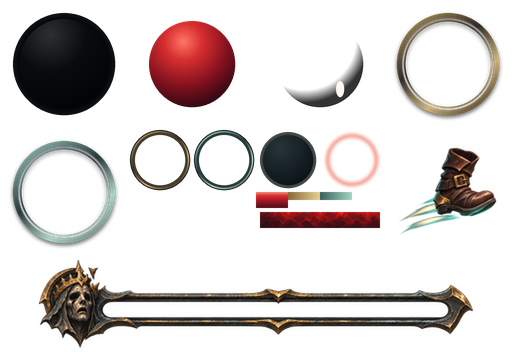
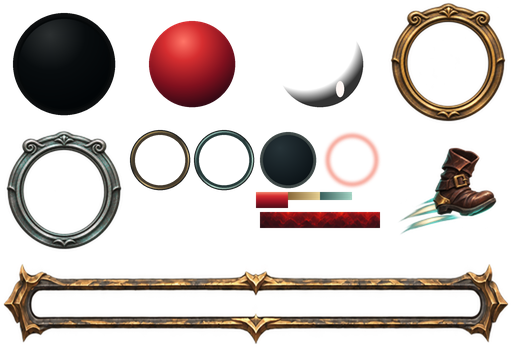
Implement wide boss header and larger ornate health orbs

Changed region(s): [[0.0, 0.75, 1.0, 0.9688], [0.75, 0.0, 1.0, 0.3438], [0.0, 0.375, 0.25, 0.7188]]

diff --git a/core/src/main/java/com/couchcrypt/game/GameHud.java b/core/src/main/java/com/couchcrypt/game/GameHud.java
@@ -15,12 +15,13 @@ public final class GameHud {
     private static final Color WARNING = Color.valueOf("e5a56a");
     private static final Color CRITICAL = Color.valueOf("f36d51");
     private static final Color SOUL = Color.valueOf("9bc3bb");
-    private static final float ORB_SIZE = 176f, ORB_Y = 104f;
+    private static final float ORB_SIZE = 224f, ORB_Y = 104f, ORB_LEFT = 32f;
     private static final float ORB_SCALE = ORB_SIZE / HudArt.ORB_SIZE;
-    private static final float SKILL_Y = 150f, SKILL_SIZE = 88f, SKILL_STEP = 100f;
-    private static final float DODGE_Y = 154f, DODGE_SIZE = 80f;
+    private static final float SKILL_Y = 100f, SKILL_SIZE = 88f, SKILL_STEP = 96f, SKILL_LEFT = 376f;
+    private static final float DODGE_Y = 104f, DODGE_SIZE = 80f, DODGE_LEFT = 272f;
     private static final float CRITICAL_HEALTH = .2f, PULSE_SECONDS = 1.6f;
-    private static final float BOSS_X = 480f, BOSS_Y = 850f, BOSS_SCALE = 960f / 512f;
+    private static final float BOSS_X = 288f, BOSS_Y = 928f, BOSS_WIDTH = 1344f, BOSS_HEIGHT = 86f;
+    private static final float BOSS_SCALE_X = BOSS_WIDTH / 512f, BOSS_SCALE_Y = BOSS_HEIGHT / 96f;
     private static final int ARC_SEGMENTS = 48;
     private final GameArt art;
     private final HudArt hudArt;
@@ -51,7 +52,7 @@ public final class GameHud {
         lowHealth = new Text(ui.small, .85f, 180f, CRITICAL); lowHealth.set("LOW HEALTH");
         partyLevel = new Text(ui.small, .9f, 480f, UiArt.GOLD);
         timer = new Text(ui.section, 1.15f, 160f, UiArt.IVORY);
-        bossName = new Text(ui.heading, .6f, 750f, UiArt.IVORY);
+        bossName = new Text(ui.heading, .78f, 1240f, UiArt.IVORY);
     }
 
     public void reset() {
@@ -75,7 +76,7 @@ public final class GameHud {
         for (ArenaWorld.Player player : world.players) if (player.active) {
             boolean mirror = split && player.slot == 1;
             batch.setColor(0, 0, 0, .64f);
-            batch.draw(art.shadow, mirror ? 1020f : 12f, 80f, 888f, 250f);
+            batch.draw(art.shadow, mirror ? 1020f : 12f, 76f, 888f, 276f);
         }
         batch.setColor(0, 0, 0, .35f); batch.draw(art.shadow, 40f, 16f, 1840f, 90f);
         if (split) {
@@ -106,18 +107,17 @@ public final class GameHud {
         partyLevel.center(batch, 960f, 82f);
         if (state.bossVisible) {
             bossName.set(state.bossName);
-            bossName.center(batch, BOSS_X + HudArt.BOSS_TITLE_X * BOSS_SCALE,
-                BOSS_Y + HudArt.BOSS_TITLE_Y * BOSS_SCALE);
+            bossName.center(batch, 960f, 1058f);
         } else timer.center(batch, 960f, 1028f);
         batch.setColor(Color.WHITE);
     }
 
     /** Painted frame and live fill share the same managed HUD page. No baked text or health. */
     private void bossArt(SpriteBatch batch, ArenaHudState state) {
-        float x = BOSS_X + HudArt.BOSS_TRACK_X * BOSS_SCALE;
-        float y = BOSS_Y + HudArt.BOSS_TRACK_Y * BOSS_SCALE;
-        float width = HudArt.BOSS_TRACK_WIDTH * BOSS_SCALE;
-        float height = HudArt.BOSS_TRACK_HEIGHT * BOSS_SCALE;
+        float x = BOSS_X + HudArt.BOSS_TRACK_X * BOSS_SCALE_X;
+        float y = BOSS_Y + HudArt.BOSS_TRACK_Y * BOSS_SCALE_Y;
+        float width = HudArt.BOSS_TRACK_WIDTH * BOSS_SCALE_X;
+        float height = HudArt.BOSS_TRACK_HEIGHT * BOSS_SCALE_Y;
         rect(batch, x, y, width, height, Color.BLACK, .94f);
         float ratio = MathUtils.clamp(state.bossHealth / Math.max(1f, state.bossMaxHealth), 0, 1);
         if (ratio > 0) {
@@ -128,7 +128,7 @@ public final class GameHud {
                 fill.getU(), fill.getV2(), MathUtils.lerp(fill.getU(), fill.getU2(), ratio), fill.getV());
         }
         batch.setColor(Color.WHITE);
-        batch.draw(hudArt.bossFrame, BOSS_X, BOSS_Y, 960f, 180f);
+        batch.draw(hudArt.bossFrame, BOSS_X, BOSS_Y, BOSS_WIDTH, BOSS_HEIGHT);
     }
 
     private void refreshText(ArenaWorld world) {
@@ -169,7 +169,7 @@ public final class GameHud {
 
     private void playerArt(SpriteBatch batch, ArenaWorld.Player player, ArenaWorld world, boolean mirror) {
         boolean teal = player.slot == 1;
-        float orbX = mirror ? 1696f : 48f;
+        float orbX = mirror ? 1920f - ORB_LEFT - ORB_SIZE : ORB_LEFT;
         float ratio = healthRatio(player, world);
         if (player.alive && ratio <= CRITICAL_HEALTH) {
             float pulse = .45f + .25f * MathUtils.sin(pulseClock / PULSE_SECONDS * MathUtils.PI2);
@@ -189,7 +189,7 @@ public final class GameHud {
         }
         batch.setColor(Color.WHITE); batch.draw(hudArt.orbReflection, orbX, ORB_Y, ORB_SIZE, ORB_SIZE);
         batch.draw(teal ? hudArt.orbTeal : hudArt.orbGold, orbX, ORB_Y, ORB_SIZE, ORB_SIZE);
-        float dodgeX = mirror ? 1602f : 238f;
+        float dodgeX = mirror ? 1920f - DODGE_LEFT - DODGE_SIZE : DODGE_LEFT;
         batch.draw(hudArt.dodgeBack, dodgeX, DODGE_Y, DODGE_SIZE, DODGE_SIZE);
         if (player.alive) {
             float tint = player.dodgeCooldown <= .05f ? 1f : .36f;
@@ -212,19 +212,20 @@ public final class GameHud {
 
     private void playerText(SpriteBatch batch, ArenaWorld.Player player, ArenaWorld world, boolean mirror) {
         int slot = player.slot;
-        float center = mirror ? 1784f : 136f, dodgeX = mirror ? 1642f : 278f;
-        playerLabels[slot].center(batch, center, 302f);
-        if (player.alive && healthRatio(player, world) <= CRITICAL_HEALTH) lowHealth.center(batch, center, 110f);
+        float center = mirror ? 1920f - ORB_LEFT - ORB_SIZE * .5f : ORB_LEFT + ORB_SIZE * .5f;
+        float dodgeX = mirror ? 1920f - DODGE_LEFT - DODGE_SIZE * .5f : DODGE_LEFT + DODGE_SIZE * .5f;
+        playerLabels[slot].center(batch, center, ORB_Y + ORB_SIZE + 18f);
+        if (player.alive && healthRatio(player, world) <= CRITICAL_HEALTH) lowHealth.center(batch, center, 100f);
         dodge[slot].center(batch, dodgeX, DODGE_Y + 52f);
         if (!player.alive) revivalStatus[slot].center(batch, dodgeX, DODGE_Y - 12f);
         PlayerHudModel build = builds[slot];
         for (int i = 0; i < build.count; i++)
             ranks[slot][i].center(batch, skillX(mirror, i) + 76f, SKILL_Y + 14f);
-        overflow[slot].center(batch, mirror ? 1056f : 864f, SKILL_Y + 55f);
+        overflow[slot].center(batch, mirror ? 1026f : 894f, SKILL_Y + 55f);
     }
 
     private static float skillX(boolean mirror, int index) {
-        return mirror ? 1488f - index * SKILL_STEP : 344f + index * SKILL_STEP;
+        return mirror ? 1920f - SKILL_LEFT - SKILL_SIZE - index * SKILL_STEP : SKILL_LEFT + index * SKILL_STEP;
     }
 
     private static float healthRatio(ArenaWorld.Player player, ArenaWorld world) {

diff --git a/scripts/GenerateHudArt.py b/scripts/GenerateHudArt.py
@@ -2,8 +2,8 @@
 """Bake the approved code-native orb HUD gradients/shapes into one bounded RGBA atlas.
 
 Source: original code-native HUD shapes, 2026-11-13; smooth orb rims, local
-low-health halo and original painted boss frame approved on 2026-11-23.
-See docs/hud-art.md and art-source/boss-hud/README.md.
+low-health halo and original painted frames approved on 2026-11-24.
+See docs/hud-art.md and art-source/epic-combat-hud/README.md.
 Requires Pillow only for this offline asset-generation step; runtime has no dependency.
 """
 from pathlib import Path
@@ -134,12 +134,18 @@ def dodge_back():
 
 def main():
     atlas = Image.new('RGBA',(512*SCALE,352*SCALE))
+    rims = []
+    for name in ['gold', 'teal']:
+        with Image.open(ROOT/f'art-source/epic-combat-hud/orb-{name}-128.png') as source:
+            if source.size != (128, 128):
+                raise ValueError('Orb frames must use normalized 128x128 sources')
+            rims.append(source.convert('RGBA').resize((128*SCALE,128*SCALE),Image.Resampling.LANCZOS))
     with Image.open(ROOT/'art-source/dodge-icon/dodge-128.png') as source:
         if source.size != (128, 128):
             raise ValueError('Dodge icon must use its normalized 128x128 source')
         dodge_icon = source.convert('RGBA').resize((128*SCALE, 128*SCALE), Image.Resampling.LANCZOS)
     for image,x,y in [(orb_back(),0,0),(orb_blood(),128,0),(orb_reflection(),256,0),
-                      (orb_rim(),384,0),(orb_rim(True),0,128),
+                      (rims[0],384,0),(rims[1],0,128),
                       (skill_rim(),128,128),(skill_rim(True),192,128),
                       (dodge_back(),256,128),(low_health_glow(),320,128),
                       (dodge_icon,384,128)]:
@@ -149,9 +155,9 @@ def main():
     for x,colors in [(288,[(0,'#886738'),(1,'#e5cf92')]),(320,[(0,'#385f5c'),(1,'#a2d3c3')])]:
         atlas.alpha_composite(gradient(32,8,colors,horizontal=True),(x*SCALE,192*SCALE))
     ImageDraw.Draw(atlas).rectangle((352*SCALE,192*SCALE,356*SCALE-1,196*SCALE-1),fill="white")
-    for name, size, target, x, y in [('frame-512x96.png', (512,96), (512,96), 0, 256),
-                                      ('fill-128x16.png', (128,16), (120,16), 260, 212)]:
-        with Image.open(ROOT/'art-source/boss-hud'/name) as source:
+    for name, size, target, x, y in [('epic-combat-hud/boss-frame-512x96.png', (512,96), (512,96), 0, 256),
+                                      ('boss-hud/fill-128x16.png', (128,16), (120,16), 260, 212)]:
+        with Image.open(ROOT/'art-source'/name) as source:
             if source.size != size:
                 raise ValueError(f'Boss HUD {name} must use its normalized {size} source')
             atlas.alpha_composite(source.convert('RGBA').resize(

diff --git a/scripts/NormalizeEpicHudArt.py b/scripts/NormalizeEpicHudArt.py
@@ -1,0 +1,28 @@
+#!/usr/bin/env python3
+"""Normalize original generated alpha frames; only crop, scale and place offline."""
+from pathlib import Path
+from PIL import Image
+
+ROOT = Path(__file__).resolve().parents[1]
+SOURCE = ROOT / 'art-source/epic-combat-hud'
+
+
+def main():
+    with Image.open(SOURCE / 'boss-frame-source.png') as source:
+        frame = source.convert('RGBA').crop((36, 465, 1448, 589))
+        canvas = Image.new('RGBA', (512, 96))
+        # The destination restores the approved broad, shallow screen proportions.
+        canvas.alpha_composite(frame.resize((504, 80), Image.Resampling.LANCZOS), (4, 8))
+        canvas.save(SOURCE / 'boss-frame-512x96.png', optimize=True)
+    with Image.open(SOURCE / 'orb-frames-source.png') as source:
+        # Equal square crops preserve circular openings, with their glass centers
+        # registered to (64,64). No masking, recoloring or alpha removal is applied.
+        for name, cx in [('gold', 454), ('teal', 1318)]:
+            frame = source.convert('RGBA').crop((cx - 400, 47, cx + 400, 847))
+            frame.resize((128, 128), Image.Resampling.LANCZOS).save(
+                SOURCE / f'orb-{name}-128.png', optimize=True)
+    print('Normalized three alpha frames into the existing HUD cell dimensions.')
+
+
+if __name__ == '__main__':
+    main()

diff --git a/core/src/main/java/com/couchcrypt/game/HudArt.java b/core/src/main/java/com/couchcrypt/game/HudArt.java
@@ -10,9 +10,8 @@ public final class HudArt implements Disposable {
     public static final int ORB_SIZE = 128, BLOOD_INSET = 21, BLOOD_SIZE = 86;
     public static final int WIDTH = 512, HEIGHT = 352;
     // Bottom-left coordinates inside the 512x96 boss-frame canvas. Fill sits behind its alpha opening.
-    public static final float BOSS_TRACK_X = 101f, BOSS_TRACK_Y = 33f;
-    public static final float BOSS_TRACK_WIDTH = 350f, BOSS_TRACK_HEIGHT = 18f;
-    public static final float BOSS_TITLE_X = 276f, BOSS_TITLE_Y = 84f;
+    public static final float BOSS_TRACK_X = 30f, BOSS_TRACK_Y = 34f;
+    public static final float BOSS_TRACK_WIDTH = 452f, BOSS_TRACK_HEIGHT = 28f;
     public final long textureBytes = (long) WIDTH * HEIGHT * 4;
     public final long retainedPixmapBytes = 0; // File-backed managed texture restores from the small PNG.
     public final TextureRegion orbBack, orbBlood, orbReflection, orbGold, orbTeal, lowHealthGlow;

diff --git a/AGENTS.md b/AGENTS.md
@@ -22,6 +22,7 @@
 - Combat pacing uses authored swarm, brute-pressure and cultist-formation combinations with brief reinforcement breathers and scheduled elites. The normal session uses the twenty-minute timeline, with bounded early/middle/late pressure and progression tuned for that duration. The three-minute timeline remains a development fixture. Balance and sustained physical-TV performance require user playtesting; do not claim either is proven by short automated checks.
 - Approved combat HUD revision (2026-11-23) supersedes the earlier orb/rail layout: larger smooth gold/teal health orbs with no arrow/diamond ornaments, no HP numbers or duplicate health rail; a local soft pulse and LOW HEALTH caption at 20% effective health or below; one shared bottom XP rail/party-level label kept separate from the top boss strip; five larger acquired skill emblems with actual ranks and +N overflow; a new original illustrated boot/trail Dodge icon, cooldown ring and countdown, anchored beside the orb even with no acquired skills, with no Dodge/Ready label. Preserve downed/revival feedback and one-line notifications. Reuse the skill atlas and one file-backed managed HUD atlas (512×352 RGBA / 0.6875 MiB after the approved painted boss header; no retained decoded Pixmap), within the combined 32 MiB ceiling. Pause/choice flows and phone cards remain unchanged; full build inspection in Pause remains future work. See docs/hud-art.md.
 - Top HUD / combat polish approval (2026-11-23): use the approved original painted hollow sovereign mask, weathered iron/gold frame and deep crimson health fill, scaled down to leave the arena clear (about half the TV width). Live boss name and health remain separate from artwork. Survival shows only its timer; boss combat shows only boss name/health, without Slain/Souls counters, BOSS/phase labels or routine top banners. Keep necessary player warnings/revival cues in the player HUD/world and preserve bottom party XP. Remove the small living-player colour bar under heroes; retain actual revival progress. Ranger projectile impacts use compact, simple radial flashes/blooms/rings without incoming-direction rotation or fans; keep sword feedback directional. See art-source/boss-hud/README.md and docs/hud-art.md.
+- HUD layout approval (2026-11-24) supersedes the smaller masked boss header and plain orb rims: use the approved wide, face-free iron/gold boss frame at 70% screen width with a larger centered live name. Increase health-orb destinations from 176 to 224 logical pixels with ornate painted gold and silver/teal rims; lower Dodge and skill rows by 50 pixels, retaining cooldown/rank/overflow, low-health and downed/revival feedback. Reuse the existing 512×352 managed HUD atlas with no GPU texture growth. See docs/hud-art.md and art-source/epic-combat-hud/README.md.
 - Combat readability feedback (2026-11-23): show a simple, thin gold/teal ground ring using the actual primary targeting radius (Warden reach includes acquired skill/gear modifiers; Ranger remains 800 world units, so its boundary can extend beyond the camera). Warden's cosmetic slash lasts 0.38 seconds with a slower sweep/fade; damage and attack cadence stay unchanged, and a fresh swing replaces that player's old trail. No extra textures or filled aura/spikes. The user chose an OPEN arena with visual landmarks. The implemented layout in assets/arena/crypt-layout.json has a clear central court, four authored landmark groups and modular border wall runs. The user rejected the tall clean wall treatment and specified character-height ruined stone with broken tops and seamless module/corner joins (2026-11-23); this supersedes the earlier taller-wall proposal. Decorations add no collision obstacles or pathfinding. Coherent original cool-grey isometric props use measured ground-footprint pivots/scale; tall scenery is depth-sorted with per-camera upper fading while bases stay opaque. The replacement reuses the existing 512×512 environment page with no GPU growth, preserving actors/projectiles/utilities. See docs/arena-redesign-proposal.md and art-source/crypt-environment-v2/README.md; the concept/provenance remains in art-source/arena-redesign-proposal.zip. Gameplay feel, balance and sustained physical-TV performance still require playtesting.
 - Painted border approval and implementation (2026-11-23): the user approved art-source/arena-border-repair-proposal/native-camera-proposal.png after rejecting the stretched material-surface experiment. Use one original continuous full-side painting per axis with broad staggered grey stone and natural broken tops, plus a low corner join. No repeated independent wall fragments, procedural stone boxes, texture unfolding or per-piece source resampling. The 99 atlas pieces are storage cuts only, with original one-pixel neighbours on all four edges so filtered pixels agree at joins; 206 static placed quads reuse the three existing managed gameplay pages. Keep low perimeter art opaque; interior tall landmarks retain reveal. Extend complete paintings modestly to the actual adjoining outer wall faces and draw corner backing before wall ends so corners do not become separate foreground posts. Keep terminal storage pieces in a consistent wall-overlap order; narrow atlas columns must not flip which face draws on top. The original gameplay/attack/missile metadata and old pixels/gutters remain unchanged; no GPU texture growth. See docs/painted-arena-borders.md and art-source/painted-arena-borders/README.md. Floor engraving/paths/variation remain a separate discussion, not implemented by this border change.
 - Approved floor implementation (2026-11-23): use the generated floor proposal in art-source/engraved-crypt-floor/approved-proposal.png as the selected direction. A 600-unit true ground-plane circle has shallow Gothic carving and a double inset stone ring; broad flat dressed-stone paths radiate to the perimeter, with small muted flagstones and smooth authored wear around landmarks. Keep all paving flush and render-only, with no new collision obstacles. Draw the transparent medallion before hazards, targeting rings and actors; keep the live combat ring distinguishable. Materials and clipped path geometry are cached; storage cuts preserve original neighbour pixels. Reuse spare space in the four existing gameplay/foundation pages, with no texture growth or retained decoded Pixmaps. The later clarity feedback replaces compressed fine-grain paving with original four-course stones: field 64 at 120 world repeat, path 128×64 at 200 world repeat, plus separate 38×20 world border blocks with 2-unit grout gaps. Keep border paint intact as one 32×16 tile with premultiplied RGB for the coverage shader; crop path margins beneath those independent blocks. Preserve the original medallion. See docs/engraved-crypt-floor.md and art-source/crypt-floor-clarity/README.md.

diff --git a/docs/hud-art.md b/docs/hud-art.md
@@ -1,5 +1,39 @@
 # Combat HUD artwork
 
+## Approved revision, 2026-11-24
+
+The user's latest approval replaces the small masked boss header and plain orb
+rims described below. A face-free painted frame spans 70% of the logical screen
+(1344×86 at 1920×1080), with a larger centered live name above it. Orb destinations
+increase from 176 to 224 pixels (27%), with painted gold and silver/teal Gothic
+rims. Dodge and the five-skill rows move down 50 pixels, including cooldown/rank,
+overflow and downed/revival feedback. P1/P2 labels follow the larger frames.
+The bottom party XP lane and local low-health pulse/caption remain separate.
+
+The approved proposal, original generated alpha masters, exact prompts and
+normalization details are in
+[epic HUD provenance](../art-source/epic-combat-hud/README.md). Runtime uses
+separate art and live health/name layers, never the proposal screenshot.
+Regenerate the replacement sources with `python3 scripts/NormalizeEpicHudArt.py`,
+then bake with `python3 scripts/GenerateHudArt.py` (Pillow offline only).
+
+The new frames replace the existing two 128×128 rim cells and 512×96 boss cell.
+Original glass/blood/reflection, skill frames, Dodge, warning and crimson fill
+remain unchanged. The file-backed managed atlas remains 512×352 RGBA, 720,896
+bytes / 0.6875 MiB, with zero retained decoded Pixmaps. This revision adds no
+textures or GPU texture bytes, preserving the combined 32 MiB ceiling.
+
+Brief verification on 2026-11-24: JDK 21 core/desktop compilation and Android
+APK build passed, along with the existing `PlayerHudModelTest` and
+`ArenaHudStateTest`. Android 33 / Television_1080p native screenshots verified the
+populated co-op boss HUD, 72% boss fill, low-health pulse/caption, Dodge cooldown,
+and downed-player state. A five-second boss fixture reported 32,467,788 combined
+GPU texture bytes, HUD render CPU p95 0.43 ms, total render callback p95 9.94 ms,
+and frame interval p95 18.09 ms. This brief emulator observation does not prove
+sustained physical-TV 60 FPS. The emulator was returned to the lobby.
+
+## Earlier artwork provenance
+
 The orb glass, blood, forged gold/teal rims, skill frames and rails are original
 code-native artwork authored in `scripts/GenerateHudArt.py` on 2026-11-13.
 The user's revised HUD approval on 2026-11-23 adds larger, number-free orbs and a

diff --git a/art-source/epic-combat-hud/README.md b/art-source/epic-combat-hud/README.md
@@ -1,0 +1,31 @@
+# Wide boss header and ornate health orbs
+
+Approved and implemented 2026-11-24. All artwork was created with the built-in
+`image_gen` tool. The approved screenshot is a design reference only; runtime
+loads separate original painted frames and live health/name layers.
+
+- `approved-proposal.png`: selected wide, face-free header and lower icon rows.
+- `boss-frame-source.png`: original generated master, genuine alpha both outside
+  the metal and through its reservoir.
+- `orb-frames-source.png`: final compact gold and silver/teal rim master, genuine
+  alpha outside and inside the two frames. The earlier extraction had oversized
+  finials; the correction shortened them to fit the existing square atlas cells.
+- `boss-frame-512x96.png`, `orb-gold-128.png`, `orb-teal-128.png`: normalized runtime
+  sources, produced by `scripts/NormalizeEpicHudArt.py`. Only crop, resize and
+  placement are applied, without masking, recoloring or background removal.
+- `prompts.txt`: exact extraction/correction prompts and approved mockup prompt.
+
+The boss master crop is (36,465)–(1448,589), placed at (4,8) with size 504×80 on
+the 512×96 canvas. The final 1344×86 game destination restores its shallow screen
+proportions. The live track is x30, y34, width452, height28 in bottom-left source
+coordinates, behind the metal's rounded transparent opening. The frame is
+centered at screen x960. The live name is independently centered above it.
+
+Orb crops are 800×800, centered at source (454,447)/(1318,447), then reduced to
+128×128. The glass openings register to the existing (64,64) orb centers.
+The short engraved crest/scrollwork is contained within each cell.
+
+All three sprites replace existing cells in the managed 512×352 HUD atlas.
+The original glass/blood/reflection, skill emblems, Dodge art and crimson fill
+are preserved. No standalone frame texture, retained decoded master, or baked
+HUD screenshot is loaded. GPU texture use is unchanged.

diff --git a/art-source/boss-hud/README.md b/art-source/boss-hud/README.md
@@ -1,5 +1,9 @@
 # Painted Hollow Sovereign HUD
 
+Historical source: the 2026-11-24 approval replaces this masked frame with the
+[wide face-free header](../epic-combat-hud/README.md). The original crimson fill
+from this folder remains in use; other files are retained for provenance.
+
 The user approved the original painted concept on 2026-11-23, then requested a
 smaller boss header to preserve arena visibility. The illustrated death-mask and
 weathered iron/gold frame are original generated artwork. The rejected stock-icon
